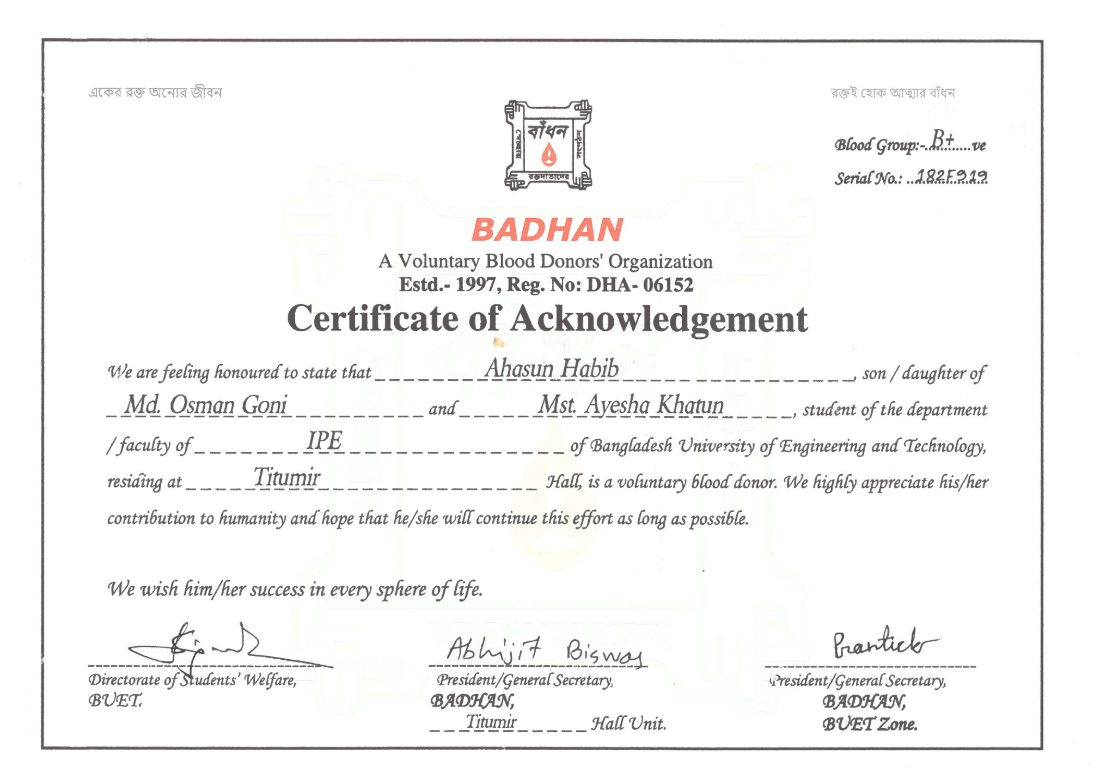
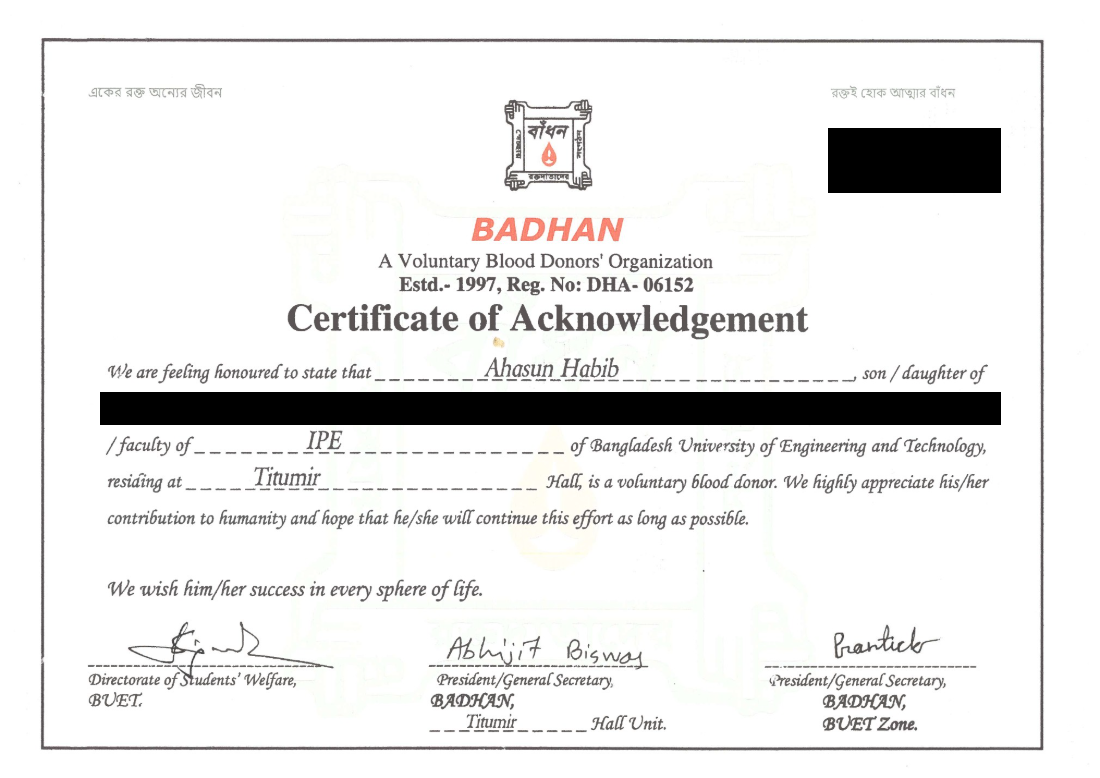
Remove personal details, align food-printing card with its paper, tidy awards
- Remove home address and phone from the site and data.js; the Map button
  now points to Lubbock, TX.
- Redact parents' names, blood group and serial number on the Badhan
  certificate.
- Food-printing research card: replace the unsupported CNN/GUI wording with
  the method and results from the linked Applied Food Research abstract.
- Awards: drop the two paper entries duplicating Publications, name the
  awarded paper (DETC2026-193788) on the ASME entry, and relabel the PDF
  as a conference program.

Claude-Session: https://claude.ai/code/session_019WK4Vmh4nV46L1a8AQnMTu

Changed region(s): [[0.0927, 0.4936, 0.9273, 0.5553], [0.7418, 0.1542, 0.9273, 0.2468]]

diff --git a/data.js b/data.js
@@ -85,7 +85,7 @@ window.PORTFOLIO = {
       year: "2023–Present"
     },
     {
-      title: "3D Food Printing Defect Detection with CNN + Image Analysis",
+      title: "Automated Print Fidelity Assessment for 3D Food Printing",
       viz: "foodprint",
       media: "assets/fig-food-fidelity.png",
       figures: [
@@ -94,8 +94,8 @@ window.PORTFOLIO = {
       ],
       doi: "10.1016/j.afres.2026.102424",
       caption: "Figures from Habib et al., Applied Food Research 2026 (open access, CC BY).",
-      tag: "AI/ML · Additive Manufacturing",
-      blurb: "Developed a machine learning model with CNN and image analysis to detect 3D food printing defects from CAD designs, integrating a GUI for real-time printability prediction and material optimization. Graduate project, Texas Tech University.",
+      tag: "Image Analysis · Additive Manufacturing",
+      blurb: "Developed an automated, training-free image segmentation pipeline to assess print fidelity of mashed potato and pea protein inks across rounded, cubic and overhang designs, validated against manual ImageJ measurements (agreement within ±5%, concordance correlation 0.975–0.995).",
       year: "2025"
     },
     {
@@ -225,9 +225,7 @@ window.PORTFOLIO = {
     }
   ],
   achievements: [
-    { year: "2026", title: "ASME DFMLC Paper of Distinction (A) Award", body: "Awarded by the ASME Design Engineering Division's Design for Manufacturing and the Life Cycle Technical Committee for a Paper of Distinction submitted to the 31st DFMLC Conference. Presented at IDETC-CIE 2026, Houston, TX, August 23–26, 2026. Co-authors: Ranadip Pal, Farnaz Maleky, Martin Binks, Paul Egan.", image: "assets/awards/asme-dfmlc-2026-certificate.jpg", pdf: "assets/awards/asme-dfmlc-2026-paper-of-distinction.pdf" },
-    { year: "2026", title: "First-Author Journal Paper — Designs", body: "Published 'Design Strategies for Mixed Unit Cell Lattices: Mechanical Assessment with Biomedical 3D Printing' in Designs, vol. 10, no. 4." },
-    { year: "2025", title: "First-Author Paper — ICED 2025, Dallas", body: "Presented 'Print Fidelity Assessment for 3D Food Printed Designs Using Manual and Automated Approaches' at the Design Society International Conference on Engineering Design (Cambridge University Press proceedings)." },
+    { year: "2026", title: "ASME DFMLC Paper of Distinction (A) Award", body: "Awarded by the ASME Design Engineering Division's Design for Manufacturing and the Life Cycle Technical Committee for a Paper of Distinction submitted to the 31st DFMLC Conference: 'Comparison of Computational and Human-Sourced Print Fidelity Assessments for 3D Printed Foods' (DETC2026-193788). Presented at IDETC-CIE 2026, Houston, TX, August 23–26, 2026. Co-authors: Ranadip Pal, Farnaz Maleky, Martin Binks, Paul Egan.", image: "assets/awards/asme-dfmlc-2026-certificate.jpg", pdf: "assets/awards/asme-dfmlc-2026-paper-of-distinction.pdf" },
     { year: "2025", title: "Biomed Journal Club Competition — Second Place", body: "Awarded second place in the Biomed Journal Club Competition at Texas Tech University." },
     { year: "2023", title: "Best Presentation Award — Third Place, BioMed Journal Club", body: "Awarded by the Edward E. Whitacre Jr. College of Engineering for the presentation 'Deep-learning-based Inverse Design of Three Dimensional Architected Cellular Materials with the Target Porosity and Stiffness using Voxelized Voronoi Lattices' at the 2023 Fall BioMed Journal Club, Texas Tech University.", image: "assets/awards/ttu-biomed-journal-club-2023.png" },
     { year: "2023 — Present", title: "Distinguished Graduate Student Assistantship (DGSA)", body: "Awarded by the Texas Tech University Graduate School and renewed for three consecutive years (2023–24, 2024–25, 2025–26).", images: [
@@ -279,8 +277,6 @@ window.PORTFOLIO = {
   contact: {
     website: { label: "akmahasunhabib.me", url: "https://akmahasunhabib.me", icon: "🌐", fa: "fa-solid fa-globe" },
     email: { label: "akhabib@ttu.edu", url: "mailto:akhabib@ttu.edu", icon: "✉", fa: "fa-solid fa-envelope" },
-    phone: { label: "(806) 730-8466", url: "tel:+18067308466", icon: "☎", fa: "fa-solid fa-phone" },
-    address: { label: "2717 3rd St #1007, Lubbock, TX 79415", url: "https://www.google.com/maps/place/2717+3rd+St,+Lubbock,+TX", icon: "🏠", fa: "fa-solid fa-house" },
     scholar: { label: "Google Scholar Profile", url: "https://scholar.google.com/citations?user=DzP9DoIAAAAJ&hl=en", icon: "🎓", fa: "fa-brands fa-google-scholar" },
     researchgate: { label: "ResearchGate Profile", url: "https://www.researchgate.net/profile/A-K-M-Ahasun-Habib-2", icon: "RG", fa: "fa-brands fa-researchgate" },
     linkedin: { label: "LinkedIn Profile", url: "https://www.linkedin.com/in/a-k-m-ahasun-habib-2868a3151/", icon: "in", fa: "fa-brands fa-linkedin-in" },

diff --git a/v20-dispatch.jsx b/v20-dispatch.jsx
@@ -399,7 +399,7 @@ function V20Portfolio({ theme = {} }) {
               <div style={{ marginTop: 6 }}>
                 <div style={{ display: 'flex', flexWrap: 'wrap', gap: 18, alignItems: 'center' }}>
                   {a.image ? <button type="button" onClick={() => setLightbox({ src: a.image, caption: a.title })} className="dsp-certlink"><i className="fa-solid fa-award"></i>View certificate</button> : null}
-                  {a.pdf ? <a href={a.pdf} target="_blank" style={{ display: 'inline-flex', gap: 8, alignItems: 'center', fontFamily: t.fontBody, fontSize: 14.5, fontWeight: 600, color: t.accent, textDecoration: 'none' }}><i className="fa-solid fa-file-pdf"></i>Award letter (PDF)</a> : null}
+                  {a.pdf ? <a href={a.pdf} target="_blank" style={{ display: 'inline-flex', gap: 8, alignItems: 'center', fontFamily: t.fontBody, fontSize: 14.5, fontWeight: 600, color: t.accent, textDecoration: 'none' }}><i className="fa-solid fa-file-pdf"></i>Conference program (PDF)</a> : null}
                 </div>
               </div>
             ) : null}
@@ -471,9 +471,8 @@ function V20Portfolio({ theme = {} }) {
                 <div style={{ fontFamily: t.fontBody, fontSize: 16, color: t.ink, lineHeight: 1.55 }}>Department of Mechanical &amp; Aerospace Engineering<br />Texas Tech University<br />Lubbock, Texas, USA</div>
                 <div style={{ display: 'flex', flexWrap: 'wrap', gap: 10, marginTop: 14 }}>
                   <a href={P.contact.affiliation.url} target="_blank" style={{ display: 'inline-flex', alignItems: 'center', gap: 7, fontFamily: t.fontBody, fontSize: 14, fontWeight: 600, border: `1px solid ${t.rule}`, padding: '6px 11px', background: t.paper }}><i className="fa-solid fa-building-columns"></i>Department</a>
-                  <a href={P.contact.address.url} target="_blank" style={{ display: 'inline-flex', alignItems: 'center', gap: 7, fontFamily: t.fontBody, fontSize: 14, fontWeight: 600, border: `1px solid ${t.rule}`, padding: '6px 11px', background: t.paper }}><i className="fa-solid fa-location-dot" style={{ color: '#ea4335' }}></i>Map</a>
+                  <a href={P.contact.location.url} target="_blank" style={{ display: 'inline-flex', alignItems: 'center', gap: 7, fontFamily: t.fontBody, fontSize: 14, fontWeight: 600, border: `1px solid ${t.rule}`, padding: '6px 11px', background: t.paper }}><i className="fa-solid fa-location-dot" style={{ color: '#ea4335' }}></i>Map</a>
                 </div>
-                <div style={{ fontFamily: t.fontBody, fontSize: 14, color: t.muted, marginTop: 12, lineHeight: 1.5 }}>Mailing: {P.contact.address.label}</div>
               </div>
             </div>
           </div>
